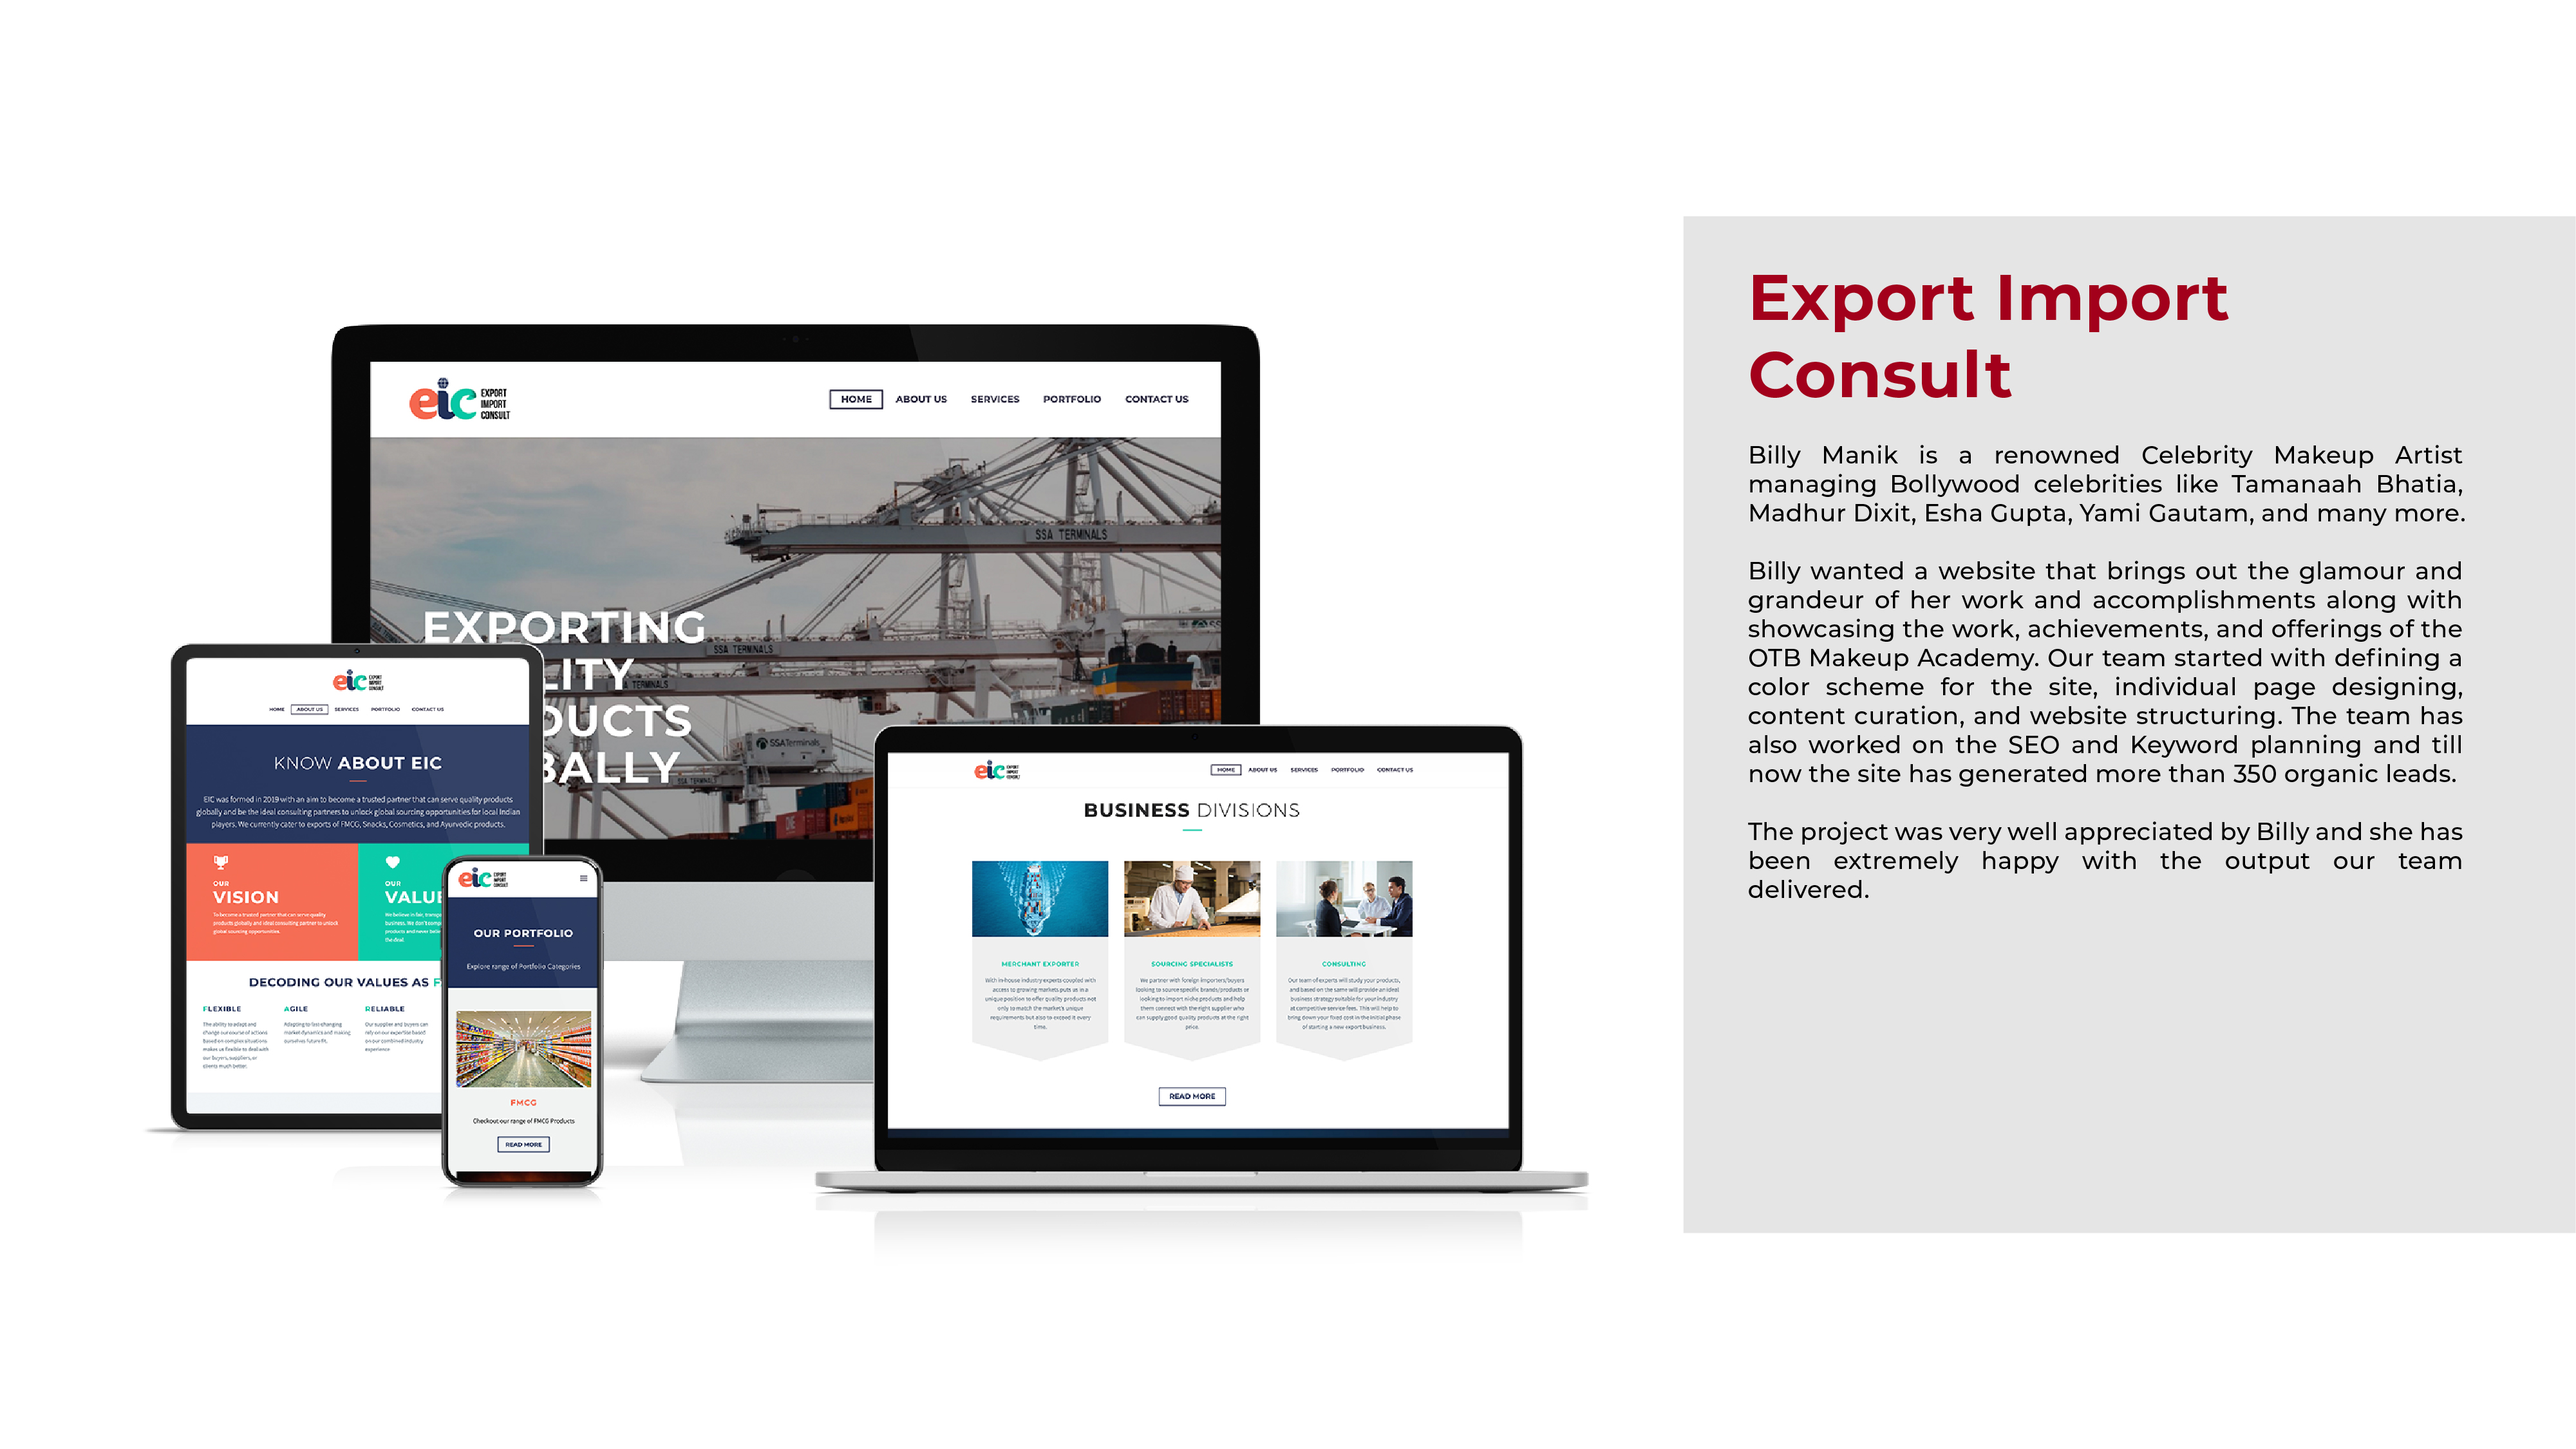
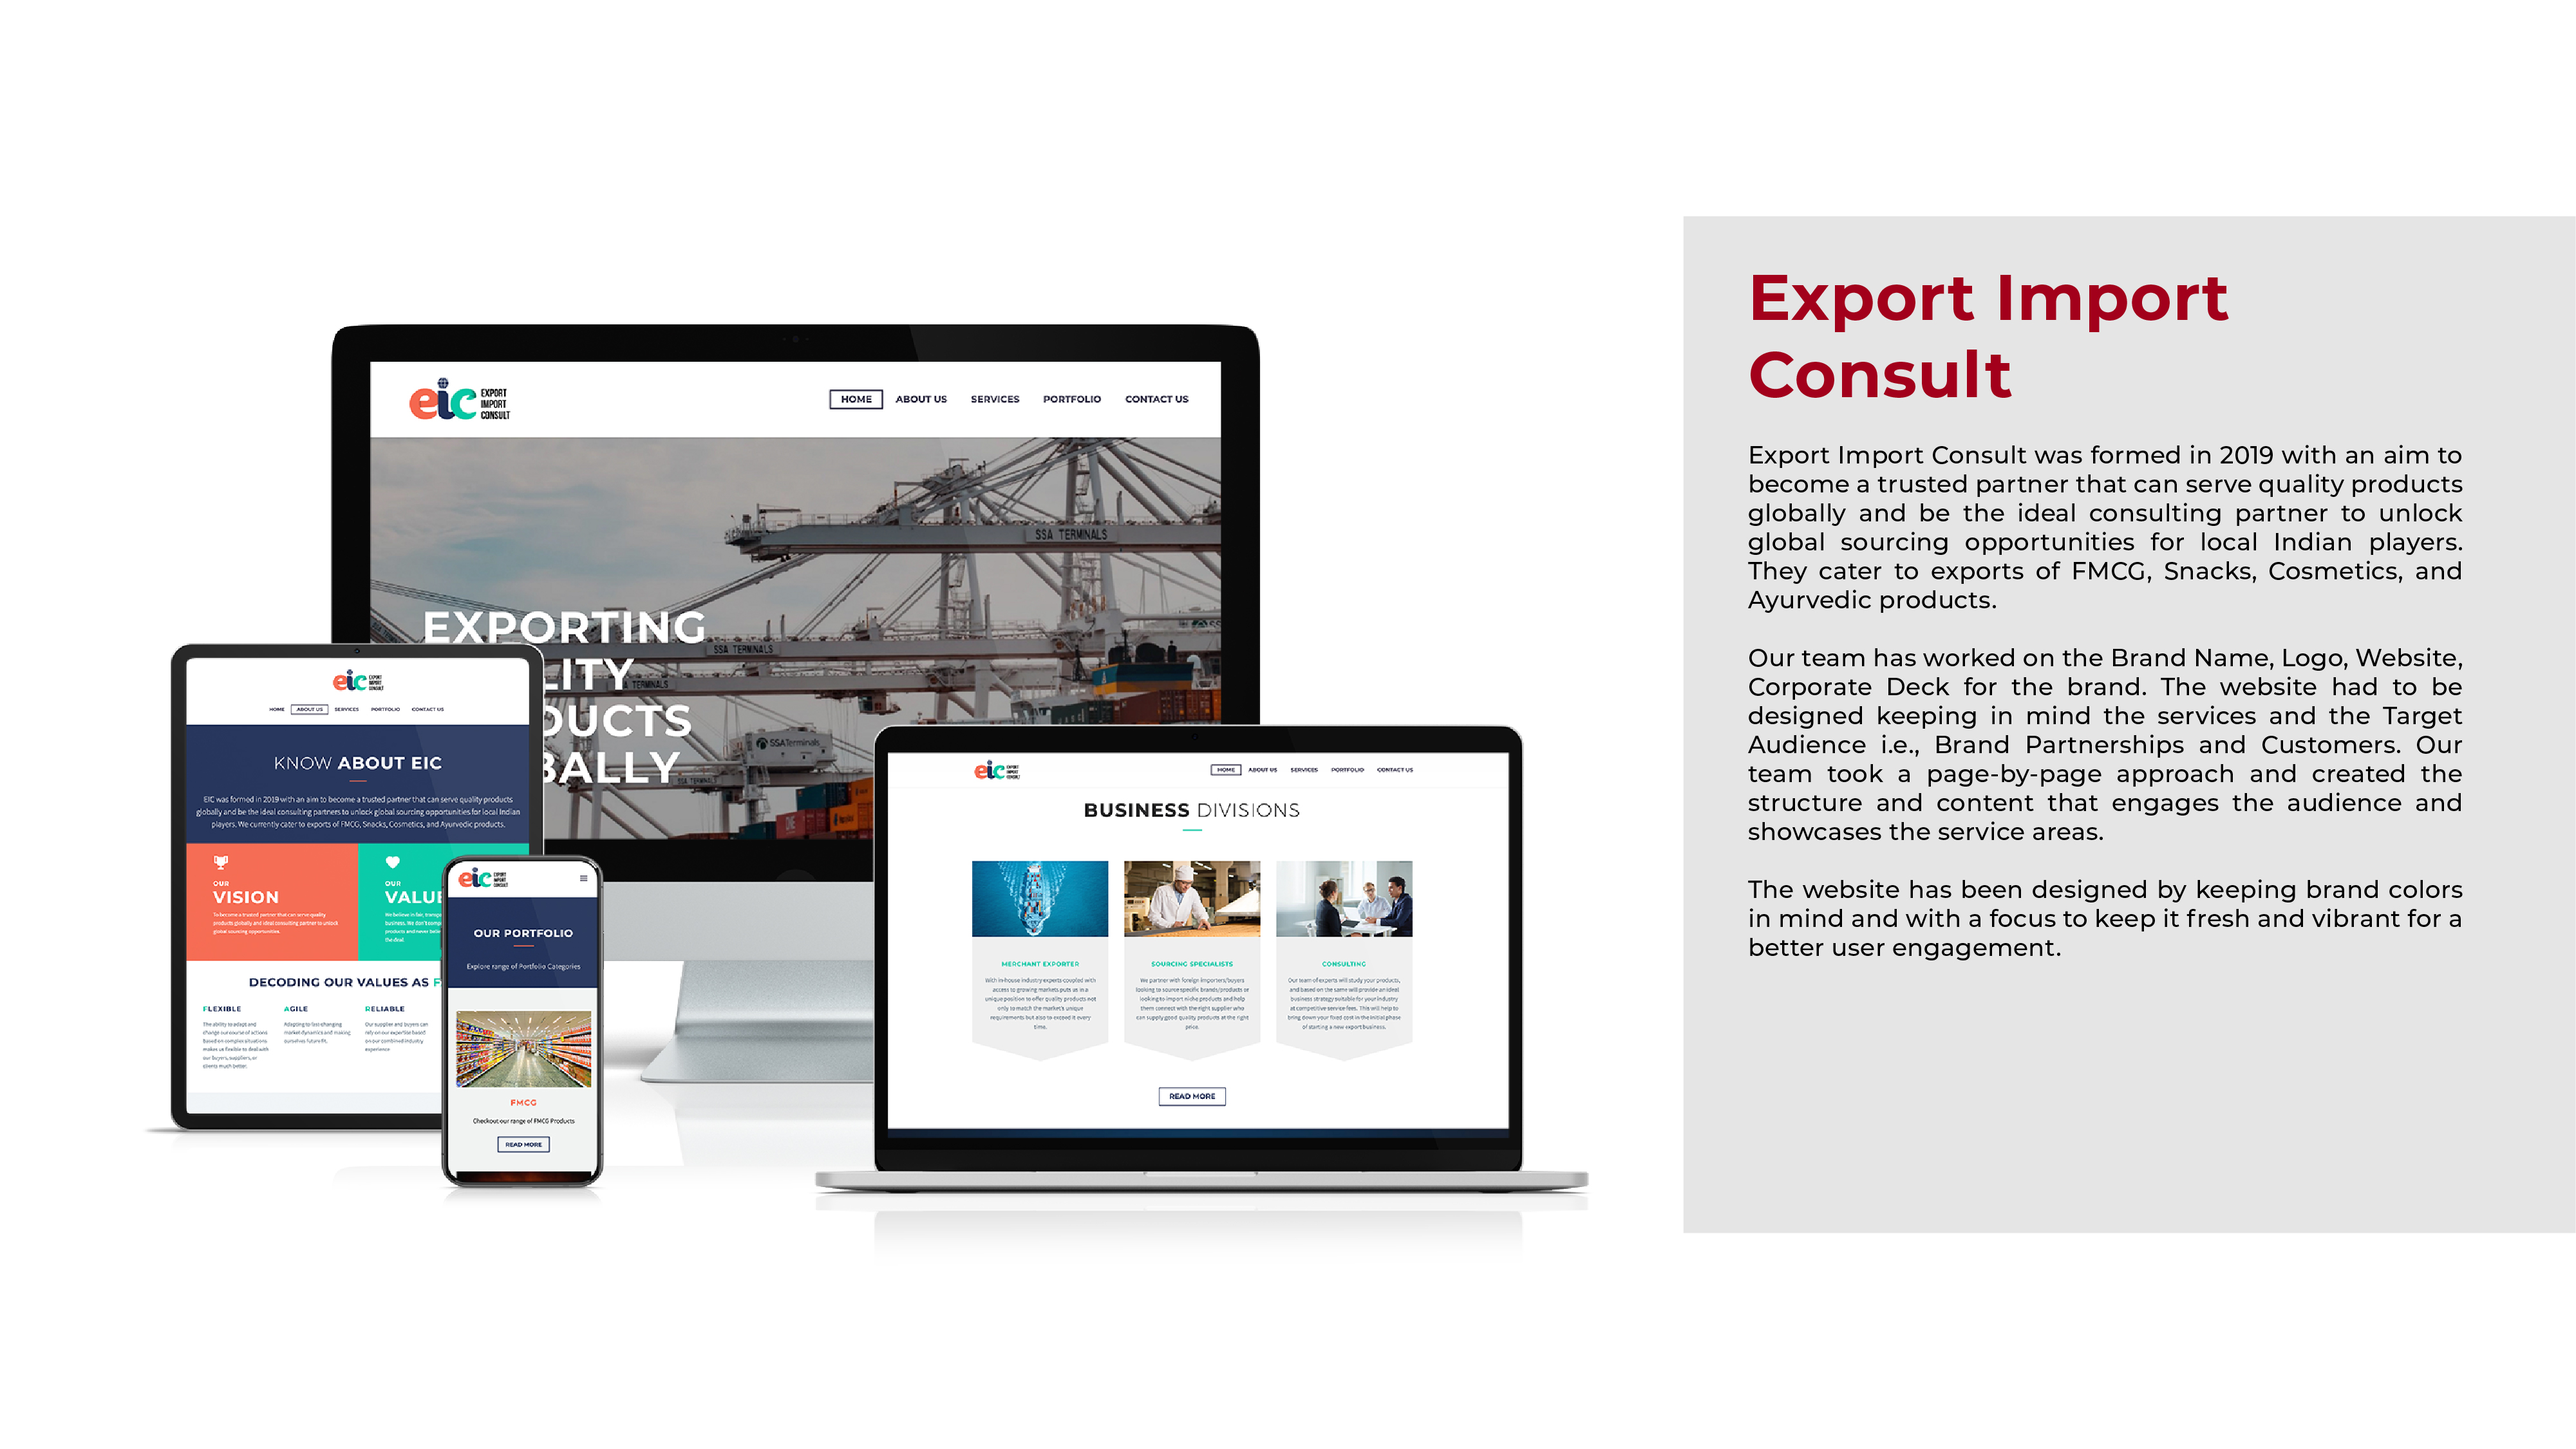
website fullscreen and removed testimonials

Changed region(s): [[0.6561, 0.311, 0.9685, 0.6841]]

diff --git a/index.html b/index.html
@@ -223,67 +223,55 @@
             data-background-size="cover"
             data-background-position="center"
           ></section>
-          <section data-background-color="white">
-            <h4 class="slide-title">Website</h4>
-            <img
-              data-src="https://deboxconsulting.github.io/marketing-portfolio/images/websites/Aaha_Web.png"
-              alt=""
-            />
+          <section
+            data-background-image="https://deboxconsulting.github.io/marketing-portfolio/images/websites/Aaha_Web.png"
+            data-background-size="cover"
+            data-background-position="center"
+          >
+            <div class="r-stretch">
+              <h4 class="slide-title-fullscreen">Website</h4>
+            </div>
           </section>
-          <section data-background-color="white">
-            <img
-              data-src="https://deboxconsulting.github.io/marketing-portfolio/images/websites/Blisstree_Web.png"
-              alt=""
-            />
-          </section>
-          <section data-background-color="white">
-            <img
-              data-src="https://deboxconsulting.github.io/marketing-portfolio/images/websites/BillyManik_Web.png"
-              alt=""
-            />
-          </section>
-          <section data-background-color="white">
-            <img
-              data-src="https://deboxconsulting.github.io/marketing-portfolio/images/websites/Connect&Impact_Web.png"
-              alt=""
-            />
-          </section>
-          <section data-background-color="white">
-            <img
-              data-src="https://deboxconsulting.github.io/marketing-portfolio/images/websites/EIC_Web.png"
-              alt=""
-            />
-          </section>
-          <section data-background-color="white">
-            <img
-              data-src="https://deboxconsulting.github.io/marketing-portfolio/images/websites/KayKay_web.png"
-              alt=""
-            />
-          </section>
-          <section data-background-color="white">
-            <img
-              data-src="https://deboxconsulting.github.io/marketing-portfolio/images/websites/Novita_Web.png"
-              alt=""
-            />
-          </section>
-          <section data-background-color="white">
-            <img
-              data-src="https://deboxconsulting.github.io/marketing-portfolio/images/websites/OIH_Web.png"
-              alt=""
-            />
-          </section>
-          <section data-background-color="white">
-            <img
-              data-src="https://deboxconsulting.github.io/marketing-portfolio/images/websites/Website_Mockup9.png"
-              alt=""
-            />
-          </section>
-          <section data-background-color="white">
-            <img
-              data-src="https://deboxconsulting.github.io/marketing-portfolio/images/websites/Website_Mockup10.png"
-              alt=""
-            />
-          </section>
+          <section
+            data-background-image="https://deboxconsulting.github.io/marketing-portfolio/images/websites/Blisstree_Web.png"
+            data-background-size="cover"
+            data-background-position="center"
+          ></section>
+          <section
+            data-background-image="https://deboxconsulting.github.io/marketing-portfolio/images/websites/BillyManik_Web.png"
+            data-background-size="cover"
+            data-background-position="center"
+          ></section>
+          <section
+            data-background-image="https://deboxconsulting.github.io/marketing-portfolio/images/websites/Connect&Impact_Web.png"
+            data-background-size="cover"
+            data-background-position="center"
+          ></section>
+          <section
+            data-background-image="https://deboxconsulting.github.io/marketing-portfolio/images/websites/EIC_Web.png"
+            data-background-size="cover"
+            data-background-position="center"
+          ></section>
+          <section
+            data-background-image="https://deboxconsulting.github.io/marketing-portfolio/images/websites/KayKay_web.png"
+            data-background-size="cover"
+            data-background-position="center"
+          ></section>
+          <section
+            data-background-image="https://deboxconsulting.github.io/marketing-portfolio/images/websites/Novita_Web.png"
+            data-background-size="cover"
+            data-background-position="center"
+          ></section>
+          <section
+            data-background-image="https://deboxconsulting.github.io/marketing-portfolio/images/websites/Website_Mockup9.png"
+            data-background-size="cover"
+            data-background-position="center"
+          ></section>
+          <section
+            data-background-image="https://deboxconsulting.github.io/marketing-portfolio/images/websites/Website_Mockup10.png"
+            data-background-size="cover"
+            data-background-position="center"
+          ></section>
         </section>
         <section id="s9">
           <section
@@ -803,26 +791,6 @@
             data-background-size="cover"
             data-background-position="center"
           ></section>
-        </section>
-        <section id="s21">
-          <section
-            data-background-image="https://deboxconsulting.github.io/marketing-portfolio/images/Debox_Deck_Presentation-21.jpeg"
-            data-background-size="cover"
-            data-background-position="center"
-          ></section>
-          <section>
-            <h4 class="slide-title">Testimonial</h4>
-            <img
-              data-src="https://deboxconsulting.github.io/marketing-portfolio/images/testimonials/Debox_Deck_Presentation_Testimonials_v1.jpeg"
-              alt=""
-            />
-          </section>
-          <section>
-            <img
-              data-src="https://deboxconsulting.github.io/marketing-portfolio/images/testimonials/Debox_Deck_Presentation-26.jpeg"
-              alt=""
-            />
-          </section>
         </section>
         <section id="s14" data-background-color="white">
           <h4>Sucker for more?</h4>
